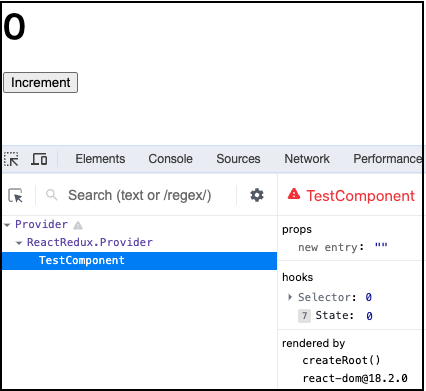
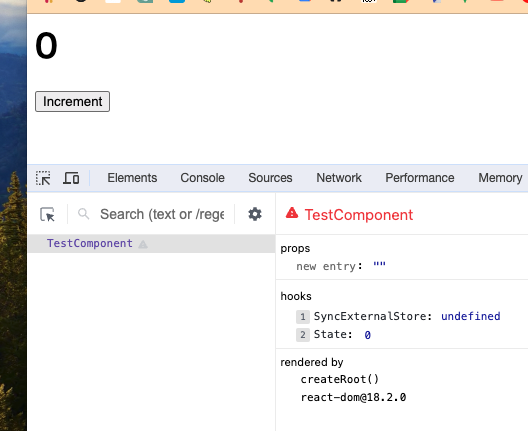
Update README

Changed region(s): [[0.0, 0.0, 1.0, 1.0], [0.885, 0.6138, 0.9155, 0.6445], [0.8545, 0.798, 0.885, 0.8286]]

diff --git a/main.tsx b/main.tsx
@@ -3,13 +3,16 @@ import {useState, useSyncExternalStore} from "react";
 
 
 function unsubscribe() {
+    console.log('unsubscribe');
 }
 
 function subscribe(callback: () => void): () => void {
+    console.log('subscribe');
     return unsubscribe
 }
 
 function getState() {
+    console.log('getState');
 }
 
 window.addEventListener('DOMContentLoaded', () => {

diff --git a/README.md b/README.md
@@ -2,6 +2,13 @@
 
 This is the minimal code to reproduce the React dev tool issue 
 
+Version
+- react@18.2.0
+- react-dom@18.2.0
+- React Developer Tools 4.28.5
+- Google Chrome 119.0.6045.105
+- macOS 14.0（23A344）
+
 # How to Reproduce The Bug
 
 ```shell
@@ -10,14 +17,14 @@ npm run # build JS file
 open index.html
 ```
 
-"Components" tab shows the counter's value is stored in hook `7`.
+"Components" tab shows the counter's value is stored in hook `2`.
 
 ![image1.png](doc%2Fimage1.png)
 
+However, "Profiler" tab shows that hook `3` is changed, though hook `3` doesn't exist.
+
 ![image2.png](doc%2Fimage2.png)
 
-However, "Profiler" tab shows that 8th hook is changed, while there isn't 8th hook.
-
-![image3.png](doc%2Fimage3.png)
 
 This bug is originally reported by [@mujurin1](https://github.com/mujurin1)
+
